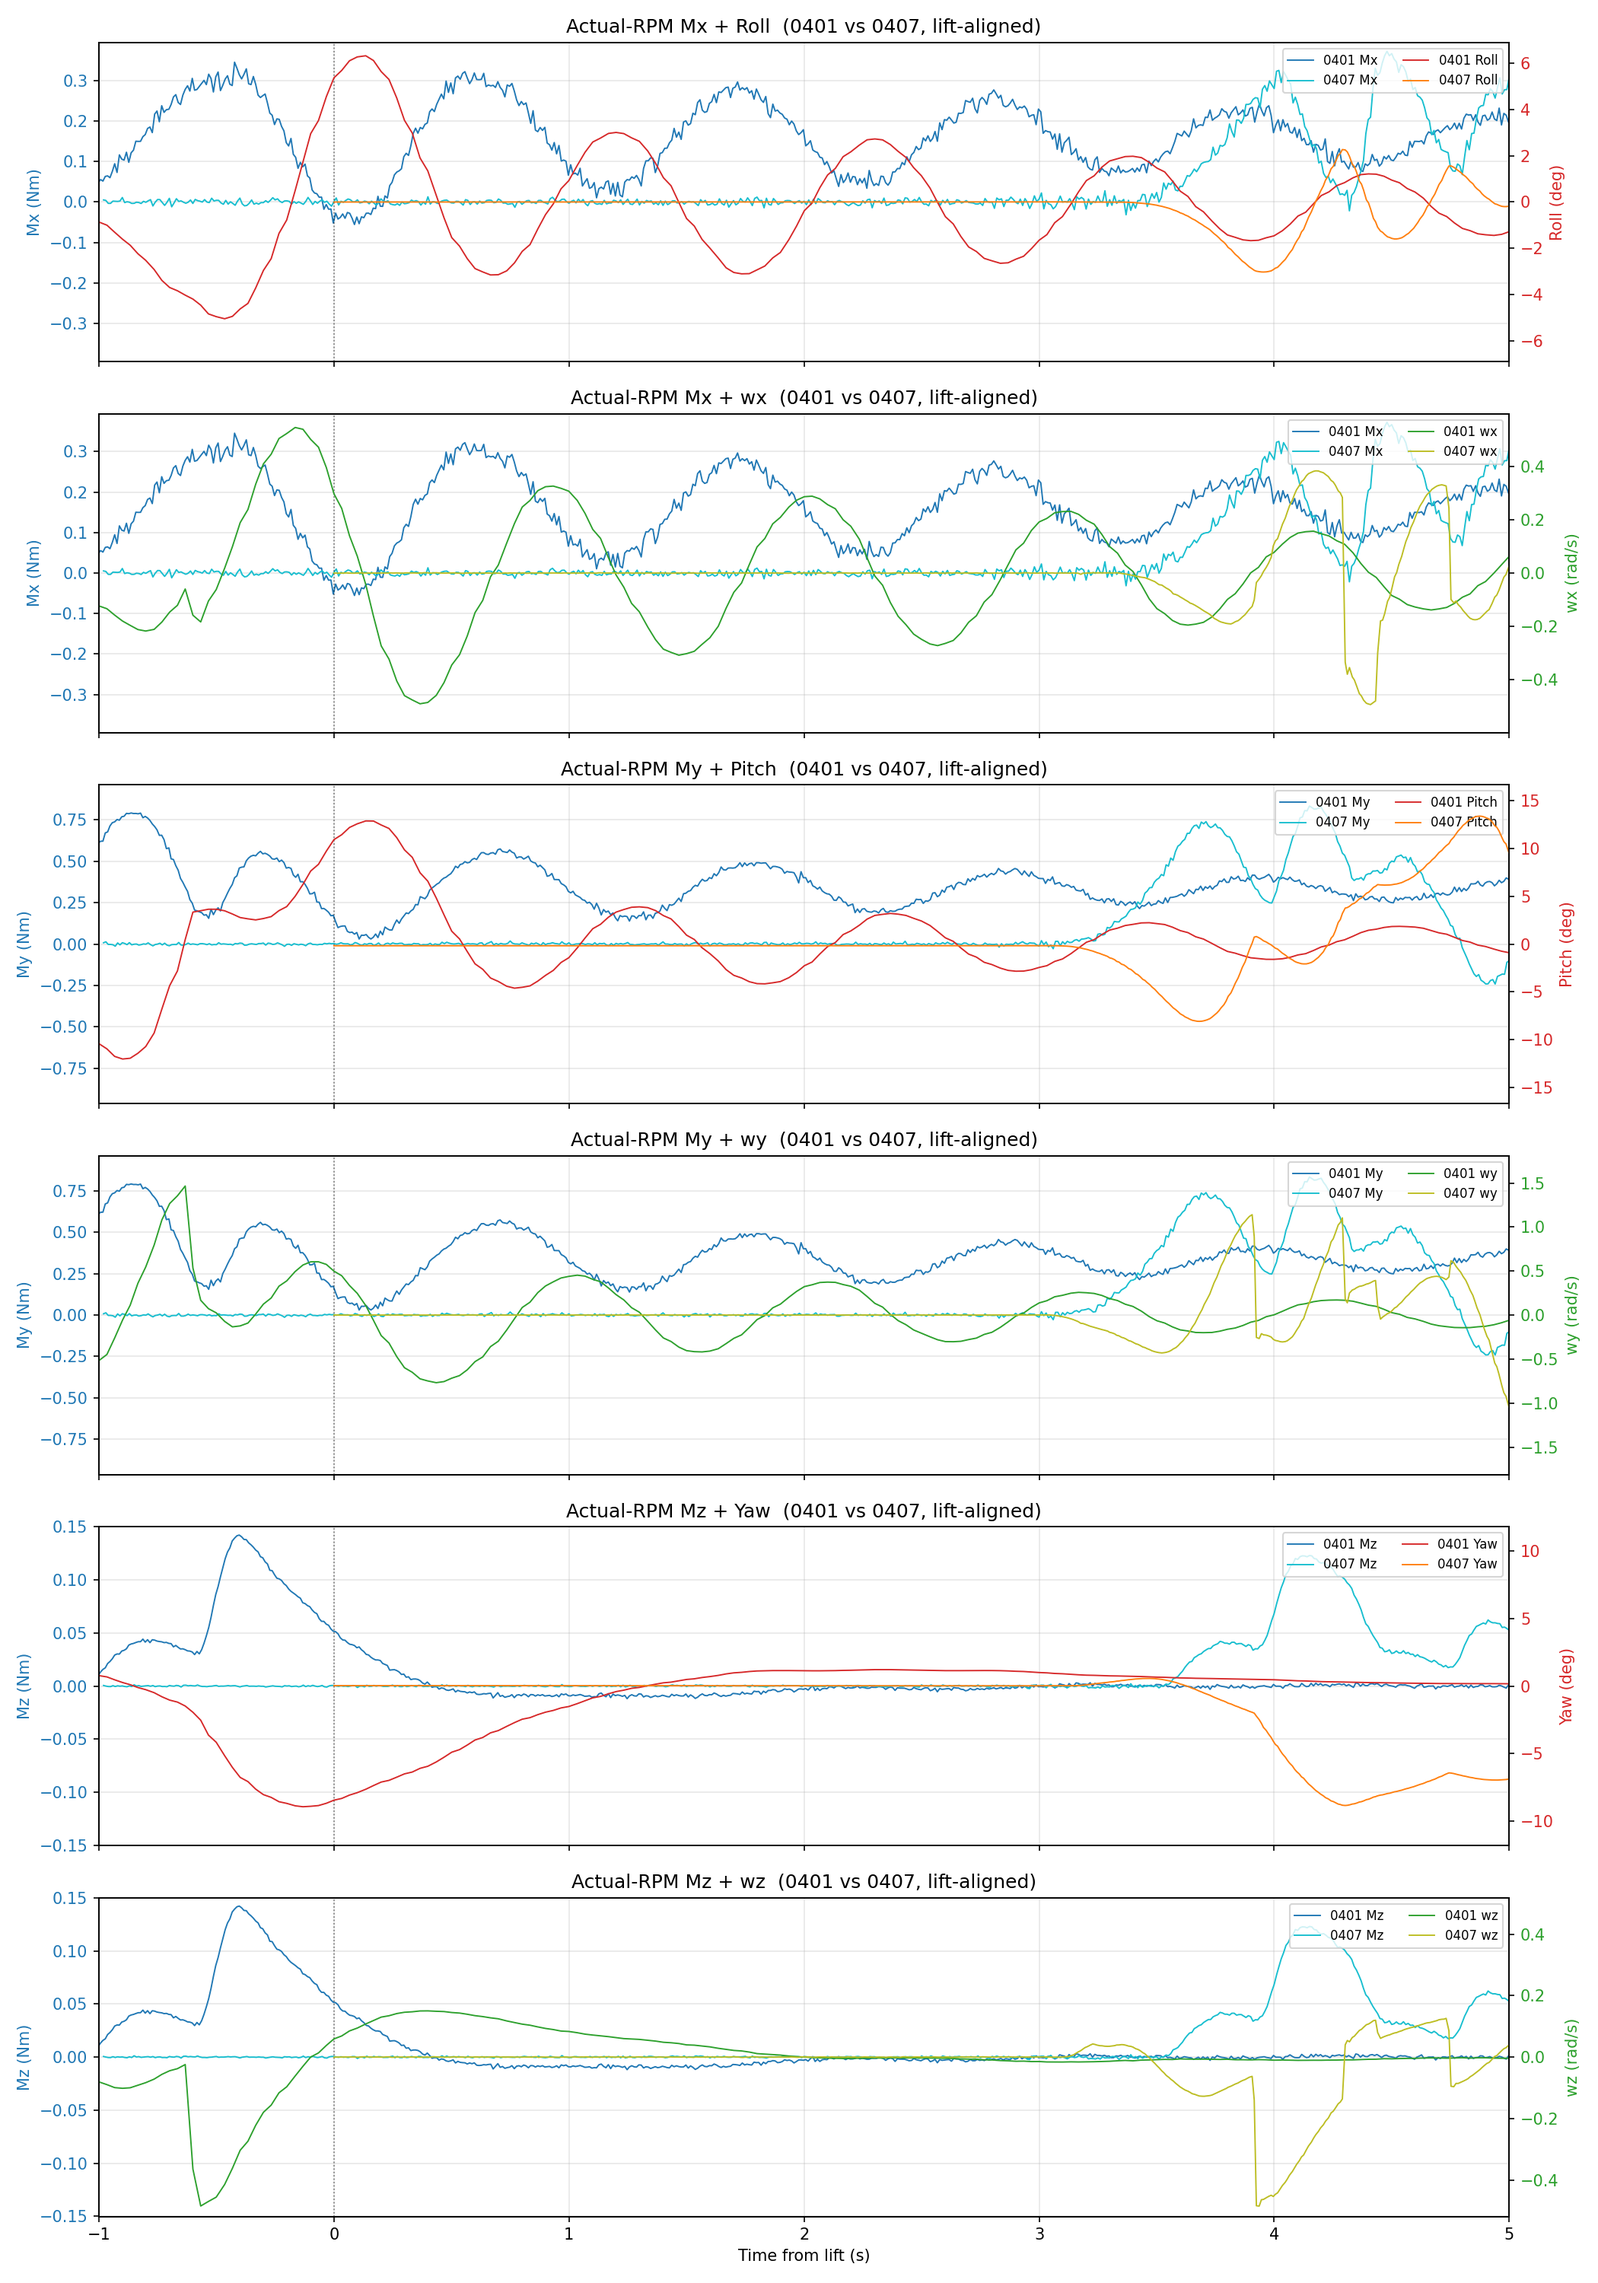
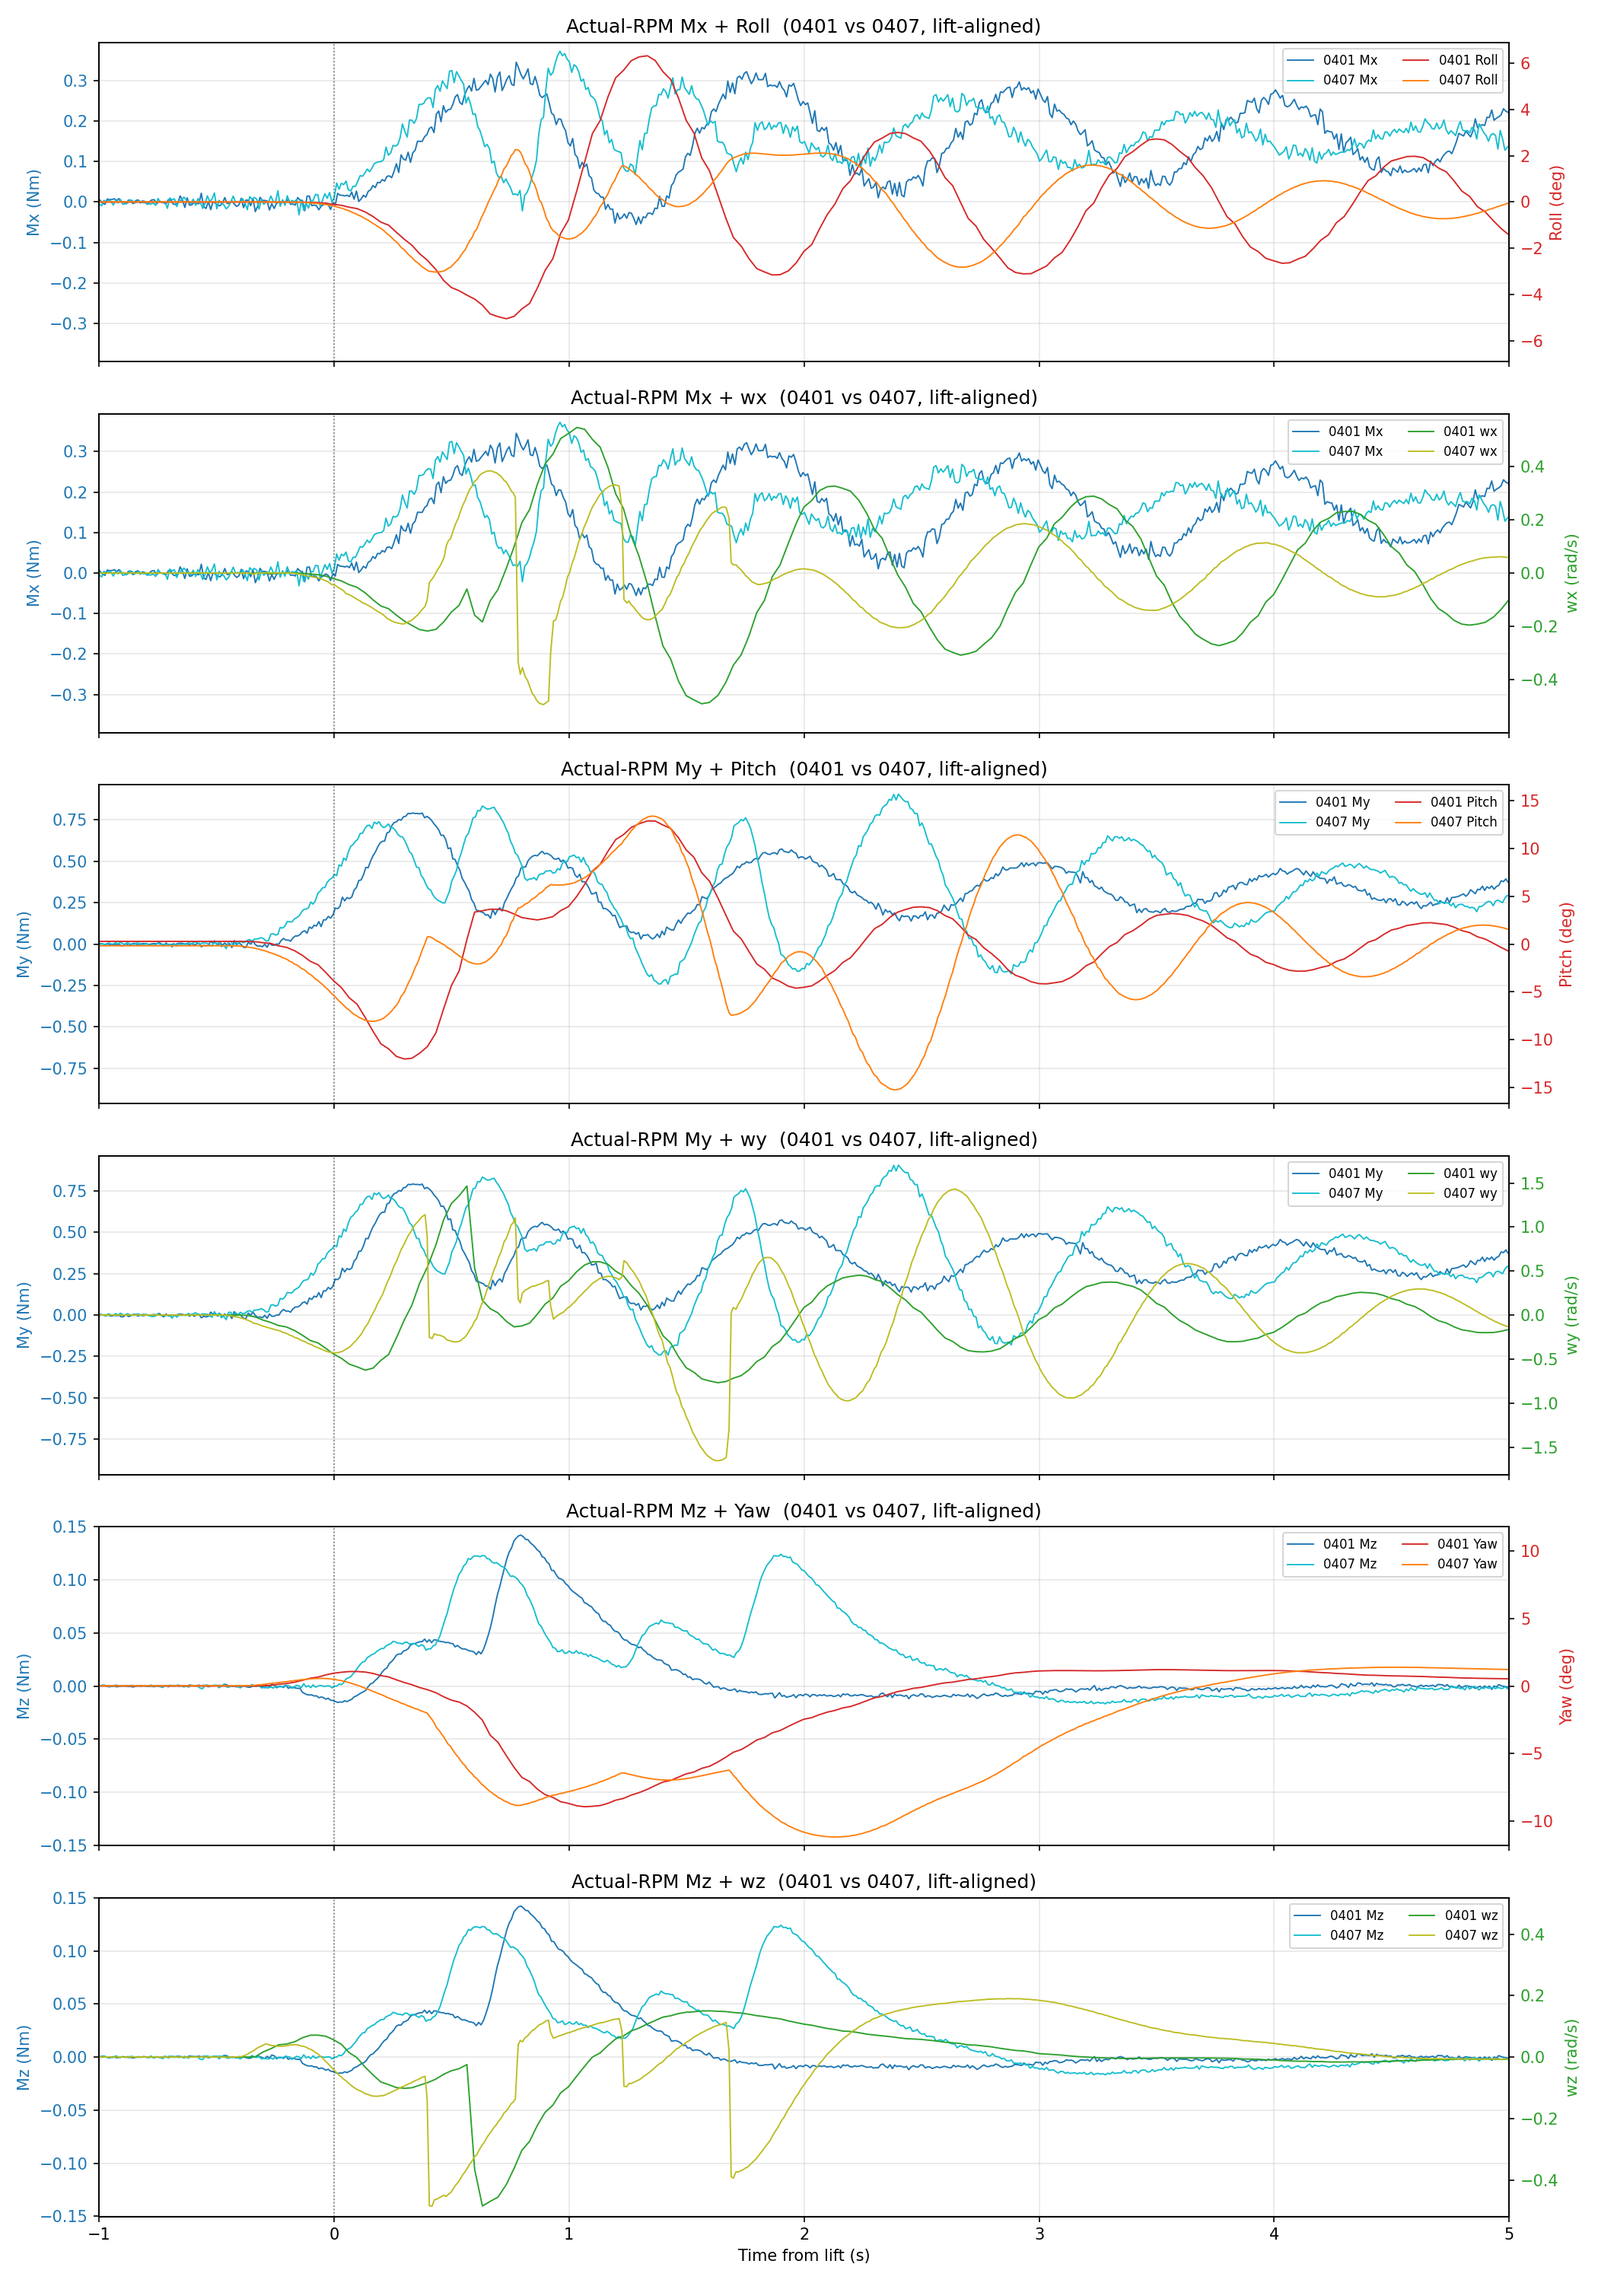
Sync lift instant using vz threshold for 0401 vs 0407 comparison

diff --git a/bag_folder/compare_0401_0407_lift_actual_rpm_moment.py b/bag_folder/compare_0401_0407_lift_actual_rpm_moment.py
@@ -24,14 +24,18 @@ def actual_rpm_moments(d):
     return u[:, 1], u[:, 2], u[:, 3]
 
 
-def find_lift_time(d, thresh=0.1):
-    """Return time (relative) at which odom_pz first exceeds thresh."""
-    pz = d['odom_pz']
-    t = d['odom_t']
-    idx = np.argmax(pz > thresh)
-    if idx == 0 and pz[0] <= thresh:
+def find_lift_time(d, vz_thresh=0.05):
+    """Return time (relative) at which upward velocity first exceeds vz_thresh.
+    Uses GT vz if available (smoother in SITL), else odom vz.
+    """
+    if len(d.get('gt_vz', [])) > 0:
+        vz = d['gt_vz']; t = d['gt_t']
+    else:
+        vz = d['odom_vz']; t = d['odom_t']
+    mask = vz > vz_thresh
+    if not np.any(mask):
         return t[0]
-    return t[idx]
+    return t[np.argmax(mask)]
 
 
 def load(bag):
